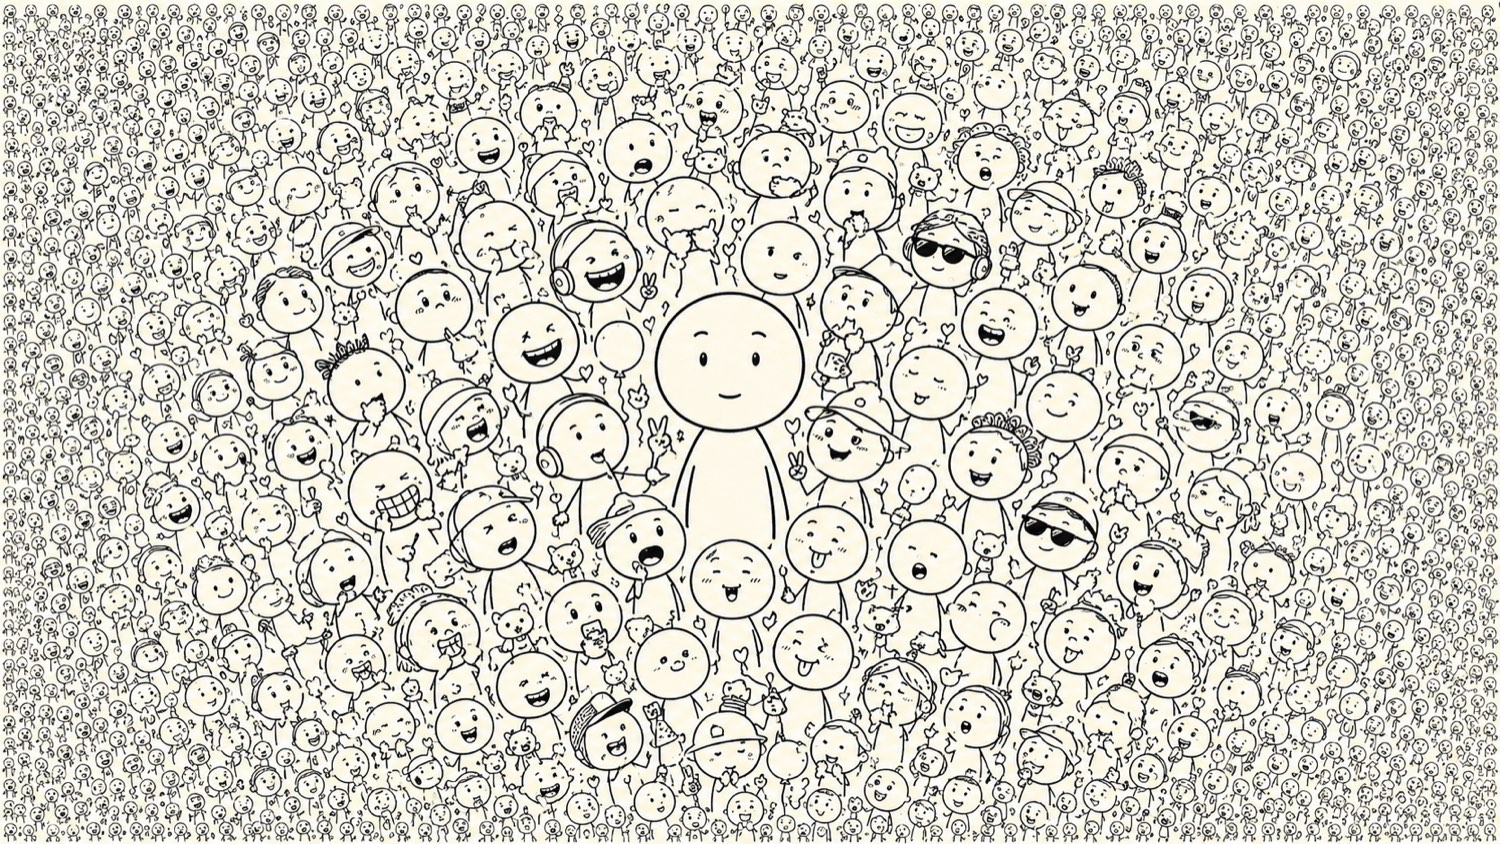
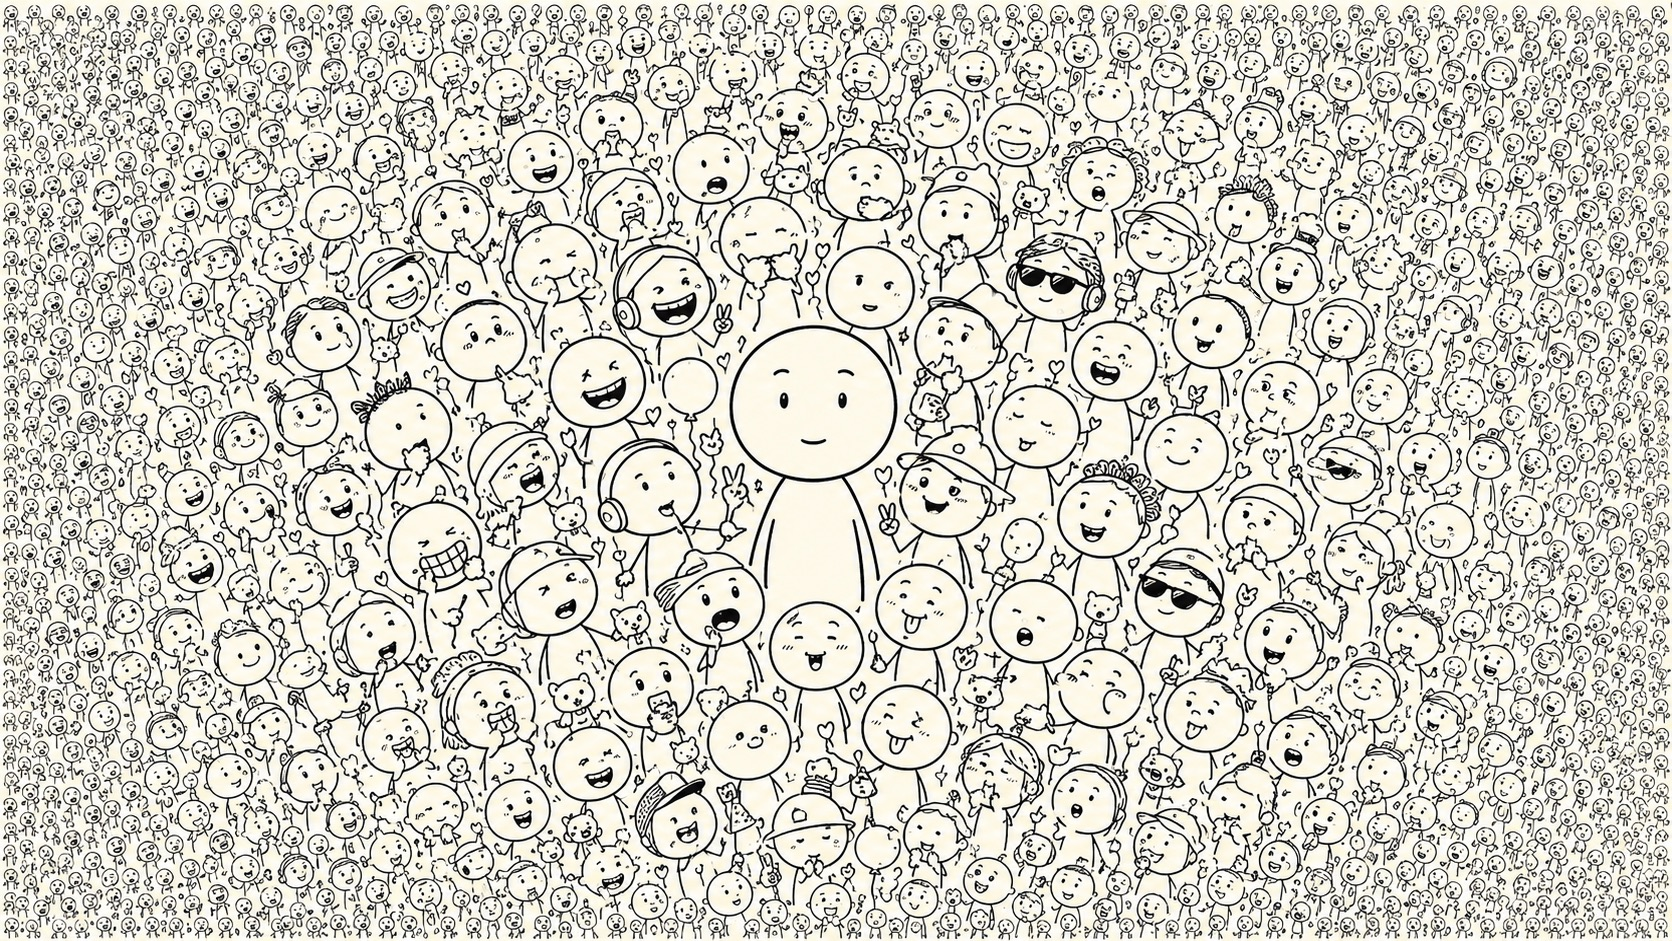
Sharpen the splash, shorten the burst, make compare toggles work
Four fixes to the intro and the comparison section.

The crowd art was being served downscaled to 1500px for byte savings, which
is what made the home page look soft — it now ships at its native 1672x941
(1016KB). That is the ceiling: a 1920-wide frame still upscales it 1.15x, so
a genuinely crisp Retina render needs a higher-resolution original.

"VANISH" is uppercase and bold. Uppercase bold runs much wider at the same
size, so the font-size factor drops 0.0152 -> 0.0118; the word now measures
5.29% of the frame against the torso's 5.5% and still clears its outlines.

The burst runs 6s instead of 10s.

The compare checkboxes never worked: the JS did set the `hidden` attribute,
but the browser's own [hidden] { display: none } lives in the UA stylesheet,
and any author `display` declaration outranks it regardless of specificity —
so `.place-visual { display: flex }` kept unchecked places on screen. Fixed
with an explicit `.place-visual[hidden] { display: none }`, plus a regression
test that reads the built CSS, since that is where the cascade resolves.

Closing the gap smoothly needs the card to leave layout entirely, which no
property transition can animate, so the change runs inside a view transition
with a per-card view-transition-name. Unsupported browsers and reduced-motion
get the instant reflow.

diff --git a/src/scripts/main.ts b/src/scripts/main.ts
@@ -93,16 +93,46 @@ const compareSlider = bindTimeSlider("compare", (sliderValue) => {
   for (const place of PLACES) renderVisual(place, "compare", sliderValue);
 });
 
+// Typed locally because startViewTransition isn't in every TS DOM lib yet, and
+// this has to compile whether or not it is.
+type ViewTransitionDocument = Document & {
+  startViewTransition?: (callback: () => void) => unknown;
+};
+
+const prefersReducedMotion = window.matchMedia("(prefers-reduced-motion: reduce)");
+
+// A card has to leave layout entirely for the remaining ones to close the gap,
+// and a property transition can't animate that. Running the change inside a view
+// transition is what makes the survivors glide into the freed cell instead of
+// snapping. Unsupported or reduced-motion just gets the instant reflow.
+function withReflowAnimation(apply: () => void): void {
+  const doc = document as ViewTransitionDocument;
+  if (prefersReducedMotion.matches || typeof doc.startViewTransition !== "function") {
+    apply();
+    return;
+  }
+  doc.startViewTransition(apply);
+}
+
 for (const checkbox of document.querySelectorAll<HTMLInputElement>(
   '[data-testid="compare-toggle"]',
 )) {
   const placeId = checkbox.dataset.placeId;
   const visual = placeId ? findPlaceVisual(placeId, "compare") : null;
-  const sync = () => {
-    if (visual) visual.hidden = !checkbox.checked;
-  };
-  checkbox.addEventListener("change", sync);
-  sync();
+  if (!placeId || !visual) continue;
+
+  // Each card needs its own name for the API to track it across the change;
+  // derived from the data so it stays in step with PLACES.
+  visual.style.setProperty("view-transition-name", `compare-${placeId}`);
+
+  checkbox.addEventListener("change", () => {
+    withReflowAnimation(() => {
+      visual.hidden = !checkbox.checked;
+    });
+  });
+
+  // Initial state matches the checkbox without animating on load.
+  visual.hidden = !checkbox.checked;
 }
 
 // Autoplay: off by default, user-triggered only, and stops at the final

diff --git a/src/styles/intro.css b/src/styles/intro.css
@@ -15,8 +15,10 @@
 }
 
 /*
- * The crowd art is 1500x844 and the word "vanish" has to sit inside one
- * particular figure's body. A plain object-fit: cover image won't do: cover
+ * The crowd art is 1672x941 — its native size, which is the sharpness ceiling:
+ * a 1920-wide frame already upscales it, so never downscale the source. The
+ * word "vanish" has to sit inside one particular figure's body, and a plain
+ * object-fit: cover image won't do: cover
  * crops by an amount that changes with the viewport, so a percentage-placed
  * overlay would drift off the figure. This frame is instead sized to exactly
  * the cover box — never smaller than the viewport, always the art's aspect
@@ -24,7 +26,7 @@
  * at every viewport.
  */
 .intro-frame {
-  --ar: 1.7773; /* 1500 / 844 */
+  --ar: 1.7768; /* 1672 / 941 */
   --frame-w: max(100vw, calc(100dvh * var(--ar)));
   --frame-h: max(100dvh, calc(100vw / var(--ar)));
 
@@ -64,10 +66,18 @@
   background: none;
   color: #1a1a1a;
   font-family: Georgia, "Times New Roman", serif;
-  font-size: calc(var(--frame-w) * 0.0152);
+
+  /*
+   * Set uppercase and bold, which runs far wider than the lowercase word did
+   * at the same size — hence the smaller factor here, tuned so the word still
+   * clears the torso outlines rather than crossing them.
+   */
+  font-size: calc(var(--frame-w) * 0.0118);
   font-style: italic;
+  font-weight: 700;
   line-height: 1;
-  letter-spacing: 0.01em;
+  letter-spacing: 0.02em;
+  text-transform: uppercase;
   cursor: pointer;
   translate: -50% -50%;
 }
@@ -122,7 +132,7 @@
 
 .intro-boom.is-erupting {
   opacity: 1;
-  animation: boom-grow var(--boom-duration, 10s) cubic-bezier(0.4, 0, 0.75, 0.5) forwards;
+  animation: boom-grow var(--boom-duration, 6s) cubic-bezier(0.4, 0, 0.75, 0.5) forwards;
 }
 
 @keyframes boom-grow {

diff --git a/spec/assignment-1.test.ts b/spec/assignment-1.test.ts
@@ -1,4 +1,4 @@
-import { existsSync, readFileSync } from "node:fs";
+import { existsSync, readFileSync, readdirSync } from "node:fs";
 import { resolve } from "node:path";
 import { JSDOM } from "jsdom";
 import { describe, expect, it } from "vitest";
@@ -181,6 +181,25 @@ describe("built page: the interaction is actually wired to the data", () => {
     const grid = doc.querySelector('[data-testid="compare-grid"]');
     const visuals = grid?.querySelectorAll('[data-testid="place-visual"][data-scope="compare"]');
     expect(visuals).toHaveLength(PLACES.length);
+  });
+
+  // Guards a bug that shipped: unchecking a place set the `hidden` attribute,
+  // but the browser's [hidden] { display: none } lives in the UA stylesheet and
+  // any author `display` outranks it — so `.place-visual { display: flex }` kept
+  // unchecked places on screen. Asserted against the built CSS, because that is
+  // where the cascade actually resolves.
+  it("ships a rule that collapses an unchecked place, beating .place-visual's display:flex", () => {
+    const cssDir = resolve("dist/_astro");
+    const css = readdirSync(cssDir)
+      .filter((name) => name.endsWith(".css"))
+      .map((name) => readFileSync(resolve(cssDir, name), "utf8"))
+      .join("\n");
+
+    expect(css.length, "found no built CSS to check").toBeGreaterThan(0);
+    expect(
+      css,
+      ".place-visual[hidden] must set display:none, or unchecking a compare toggle does nothing",
+    ).toMatch(/\.place-visual\[hidden\]\s*\{[^}]*display:\s*none/);
   });
 
   it("renders the play control paused by default, with no autoplay on load", () => {

diff --git a/src/styles/global.css b/src/styles/global.css
@@ -196,6 +196,16 @@ button:focus-visible {
   border-top: 4px solid var(--trajectory-color, #999);
 }
 
+/*
+ * Required, not redundant. Unchecking a place sets the `hidden` attribute, and
+ * the browser's own [hidden] { display: none } lives in the UA stylesheet —
+ * which any author `display` declaration outranks, whatever its specificity. So
+ * `display: flex` above kept unchecked places on screen until this rule existed.
+ */
+.place-visual[hidden] {
+  display: none;
+}
+
 .place-visual[data-trajectory="decline"] {
   --trajectory-color: #c0392b;
 }

diff --git a/src/scripts/intro.ts b/src/scripts/intro.ts
@@ -6,7 +6,7 @@ import { assetUrl } from "../lib/asset-url";
 // explainer. Reduced-motion keeps the same beats at a fraction of the length.
 const REDUCED = window.matchMedia("(prefers-reduced-motion: reduce)").matches;
 
-const BOOM_MS = REDUCED ? 400 : 10_000;
+const BOOM_MS = REDUCED ? 400 : 6_000;
 const WHITE_MS = REDUCED ? 200 : 600;
 const LINE_MS = REDUCED ? 1_600 : 2_800;
 
